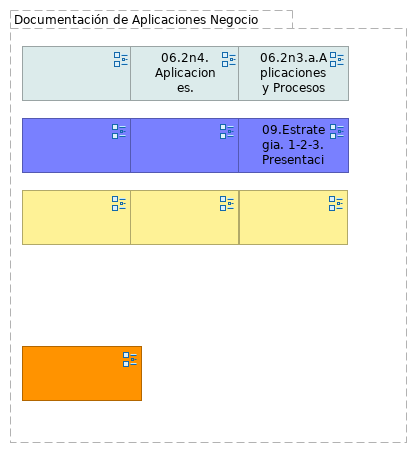
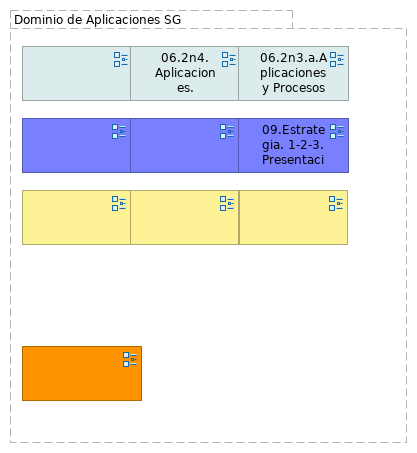
MD output

Changed region(s): [[0.0624, 0.0309, 0.6235, 0.0618]]

diff --git a/contd/report/index.html b/contd/report/index.html
@@ -470,7 +470,7 @@
 													<li class="tree-element  "><a href="id-e61caa0dc3cc436aa918b17e0f565135/elements/id-86f23761abaf42c793811ab2e079c74b.html" target="element"> Plan de entregas / iteraci&#243;n </a></li>
 													<li class="tree-element  "><a href="id-e61caa0dc3cc436aa918b17e0f565135/elements/id-2c7df20247e149c7b367a3b05b79568f.html" target="element"> Objetivos OTIC </a></li>
 													<li class="tree-element  "><a href="id-e61caa0dc3cc436aa918b17e0f565135/elements/id-e33bf194293246ccacdc3879075c4375.html" target="element"> 3. Acciones </a></li>
-													<li class="tree-element "><a href="id-e61caa0dc3cc436aa918b17e0f565135/elements/id-f40091e8ad3f4c5584f882cc8f42ff7e.html" target="element"> Documentaci&#243;n de Aplicaciones Negocio </a></li>
+													<li class="tree-element "><a href="id-e61caa0dc3cc436aa918b17e0f565135/elements/id-f40091e8ad3f4c5584f882cc8f42ff7e.html" target="element"> Dominio de Aplicaciones SG </a></li>
 													<li class="tree-element "><a href="id-e61caa0dc3cc436aa918b17e0f565135/elements/id-416114683c2c47bcbb0a3d17d284beec.html" target="element"> Anexos </a></li>
 													<li class="tree-element "><a href="id-e61caa0dc3cc436aa918b17e0f565135/elements/id-f0e8067a43474d45a2913cf1686a8b6c.html" target="element"> Sistemas de gesti&#243;n administrativa y financiera </a></li>
 													<li class="tree-element "><a href="id-e61caa0dc3cc436aa918b17e0f565135/elements/id-bf5d3f7aa7754c2eab2ce7c6a9405e05.html" target="element"> Servicios de Ingenier&#237;a $APP $CLIENTE </a></li>

diff --git a/contd/report/id-e61caa0dc3cc436aa918b17e0f565135/elements/model.html b/contd/report/id-e61caa0dc3cc436aa918b17e0f565135/elements/model.html
@@ -1044,7 +1044,7 @@
 													dataProperties.push({conceptid:"id-e33bf194293246ccacdc3879075c4375", propkey:decodeURL("destino"), propvalue:decodeURL("doc")});
 
 									dataFoldersContent.push({folderid:"id-da067e1607c447c9adea1120cbf84536", contentid:"id-f40091e8ad3f4c5584f882cc8f42ff7e", contenttype:"Grouping"});
-										dataElements.push({id:"id-f40091e8ad3f4c5584f882cc8f42ff7e", type:"Grouping", specialization:decodeURL(""), name:decodeURL("Documentaci%C3%B3n+de+Aplicaciones+Negocio"), documentation:decodeURL("")});
+										dataElements.push({id:"id-f40091e8ad3f4c5584f882cc8f42ff7e", type:"Grouping", specialization:decodeURL(""), name:decodeURL("Dominio+de+Aplicaciones+SG"), documentation:decodeURL("")});
 									dataFoldersContent.push({folderid:"id-da067e1607c447c9adea1120cbf84536", contentid:"id-416114683c2c47bcbb0a3d17d284beec", contenttype:"Grouping"});
 										dataElements.push({id:"id-416114683c2c47bcbb0a3d17d284beec", type:"Grouping", specialization:decodeURL(""), name:decodeURL("Anexos"), documentation:decodeURL("")});
 									dataFoldersContent.push({folderid:"id-da067e1607c447c9adea1120cbf84536", contentid:"id-f0e8067a43474d45a2913cf1686a8b6c", contenttype:"Grouping"});

diff --git a/contd/report/id-e61caa0dc3cc436aa918b17e0f565135/elements/id-f40091e8ad3f4c5584f882cc8f42ff7e.html b/contd/report/id-e61caa0dc3cc436aa918b17e0f565135/elements/id-f40091e8ad3f4c5584f882cc8f42ff7e.html
@@ -2,7 +2,7 @@
 <html class="frame" lang="en">
 <head>
 	<meta http-equiv="Content-Type" content="text/html;charset=utf-8">
-	<title>Documentación de Aplicaciones Negocio</title>
+	<title>Dominio de Aplicaciones SG</title>
 
 	<!-- JQUERY (use 1.x branch to be compatible with IE 6/7/8) -->
 	<script type="text/javascript" src="../../lib/jquery/js/jquery-1.11.2.min.js"></script>
@@ -21,7 +21,7 @@
 
 		<div class="panel-heading root-panel-heading">
             <!-- Name -->
-               <b>Documentaci&#243;n de Aplicaciones Negocio</b>
+               <b>Dominio de Aplicaciones SG</b>
 
             <!-- If a View with Viewpoint -->
 			   (<span class="i18n-elementtype-Grouping"></span>)

diff --git a/contd/report/id-e61caa0dc3cc436aa918b17e0f565135/views/id-051585f7d8fe43cb9015cdcda2d261dd.html b/contd/report/id-e61caa0dc3cc436aa918b17e0f565135/views/id-051585f7d8fe43cb9015cdcda2d261dd.html
@@ -100,7 +100,7 @@
 								</thead>
 								<tbody>
 											<tr>
-											    <td> <a href="../elements/id-f40091e8ad3f4c5584f882cc8f42ff7e.html" target="element"> Documentaci&#243;n de Aplicaciones Negocio </a> </td>
+											    <td> <a href="../elements/id-f40091e8ad3f4c5584f882cc8f42ff7e.html" target="element"> Dominio de Aplicaciones SG </a> </td>
 											    <td> <a href="../elements/id-f40091e8ad3f4c5584f882cc8f42ff7e.html" target="element" class="i18n-elementtype-Grouping">
 											    </a> </td>
 											</tr>

diff --git a/contd/report/id-e61caa0dc3cc436aa918b17e0f565135/views/id-421f8e047542418185c8d92411fdd466.html b/contd/report/id-e61caa0dc3cc436aa918b17e0f565135/views/id-421f8e047542418185c8d92411fdd466.html
@@ -84,7 +84,7 @@
 								</thead>
 								<tbody>
 											<tr>
-											    <td> <a href="../elements/id-f40091e8ad3f4c5584f882cc8f42ff7e.html" target="element"> Documentaci&#243;n de Aplicaciones Negocio </a> </td>
+											    <td> <a href="../elements/id-f40091e8ad3f4c5584f882cc8f42ff7e.html" target="element"> Dominio de Aplicaciones SG </a> </td>
 											    <td> <a href="../elements/id-f40091e8ad3f4c5584f882cc8f42ff7e.html" target="element" class="i18n-elementtype-Grouping">
 											    </a> </td>
 											</tr>

diff --git a/contd/mddocx/06.2n2.SIdelAnalisisdeEntorno.md b/contd/mddocx/06.2n2.SIdelAnalisisdeEntorno.md
@@ -2,7 +2,7 @@
 <div style="page-break-before: always;"></div>
 \newpage
 
-# Documentación de Aplicaciones Negocio
+# Dominio de Aplicaciones SG
 
 ## Análisis de Entorno Sistemas de Información SG
 

diff --git a/contd/mdpdf/06.2n2.SIdelAnalisisdeEntorno.md b/contd/mdpdf/06.2n2.SIdelAnalisisdeEntorno.md
@@ -2,7 +2,7 @@
 <div style="page-break-before: always;"></div>
 \newpage
 
-# Documentación de Aplicaciones Negocio
+# Dominio de Aplicaciones SG
 
 ## Análisis de Entorno Sistemas de Información SG
 

diff --git a/contd/mdtex/06.2n2.SIdelAnalisisdeEntorno.md b/contd/mdtex/06.2n2.SIdelAnalisisdeEntorno.md
@@ -2,7 +2,7 @@
 <div style="page-break-before: always;"></div>
 \newpage
 
-# Documentación de Aplicaciones Negocio
+# Dominio de Aplicaciones SG
 
 ## Análisis de Entorno Sistemas de Información SG
 
